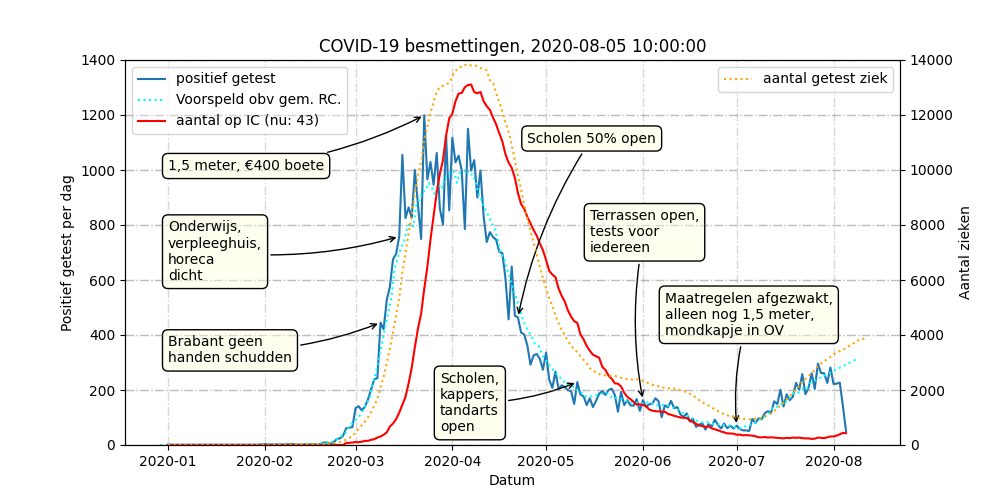
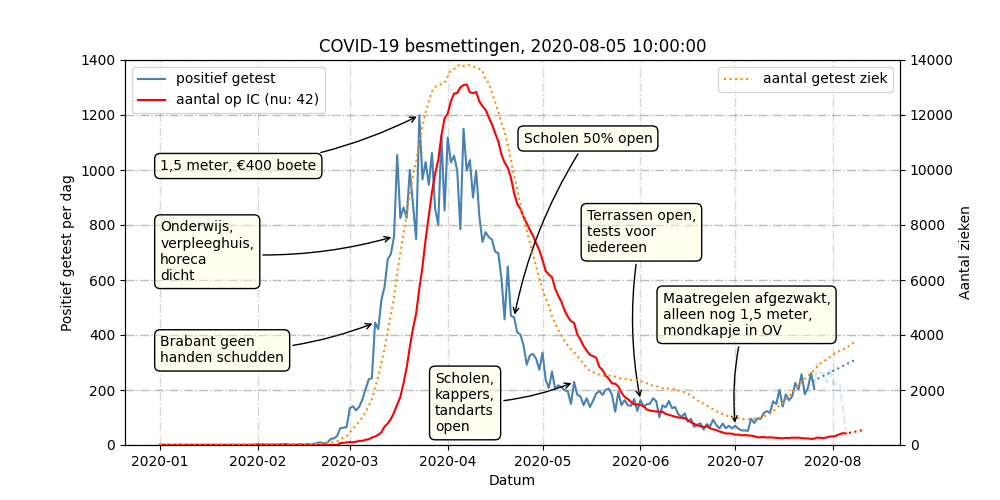
Ran getDailyExcelData

diff --git a/scripts/createGraph.py b/scripts/createGraph.py
@@ -79,7 +79,13 @@ ziek = {
 ic = {
     'x' : [],
     'y' : [],
-    'scale' : 1
+    'rc' : []
+}
+
+ic_voorspeld = {
+    'x' : [],
+    'y' : [],
+    'avgsize': 3
 }
 
 besmettingsgraad = {
@@ -102,7 +108,12 @@ for d in date_range:
         positief['y'].append(metenisweten[datum]['positief'])
 
         ic['x'].append(parser.parse(datum))
-        ic['y'].append(metenisweten[datum]['nu_op_ic'] * ic['scale'])  # <-------------- Let op! Scaled!
+        ic['y'].append(metenisweten[datum]['nu_op_ic'])
+
+        if len(ic['y'])>1:
+            ic['rc'].append(ic['y'][-1] - ic['y'][-2])
+        else:
+            ic['rc'].append(0)
 
     # --------------------------------- Gemiddeld positief getest
     if datum in metenisweten:
@@ -131,7 +142,15 @@ for d in date_range:
         voorspeld_huidig = 0
 
     positief_voorspeld['x'].append(parser.parse(datum) - datetime.timedelta(days=positief_voorspeld['avgsize']/2))
-    positief_voorspeld['y'].append(voorspeld_huidig)    
+    positief_voorspeld['y'].append(voorspeld_huidig)   
+
+    # ---------------------- Voorspelling op IC obv gemiddelde richtingscoefficient positief getest.
+    if len(ic['x']) > 10 and parser.parse(datum) > ic['x'][-1]:
+        ic_rc = mean(ic['rc'][-5:])
+
+        ic_voorspeld['x'].append(parser.parse(datum))
+        ic_voorspeld['y'].append(ic['y'][-1] + ic_rc * (parser.parse(datum) - ic['x'][-1]).days )
+
 
     # --------------------------------- Positief getest, en nu ziek (beter na x dagen)
     beterdag = (parser.parse(datum) - datetime.timedelta(days=ziek['ziekteduur'])).strftime("%Y-%m-%d")
@@ -184,7 +203,7 @@ ax2.grid(which='both', axis='both', linestyle='-.',
 
 # Plot cases per dag
 ax1.plot(positief['x'][:-10], positief['y'][:-10], color='steelblue', label='positief getest')
-ax1.plot(positief['x'][-11:], positief['y'][-11:], color='steelblue', alpha=0.2)
+ax1.plot(positief['x'][-11:], positief['y'][-11:], color='steelblue', linestyle='--', alpha=0.2)
 
 anotate(ax1, metenisweten, "2020-03-09",
         'Brabant geen\nhanden schudden', "2020-01-01", 300)
@@ -205,10 +224,11 @@ anotate(ax1, metenisweten, "2020-07-01",
 #          str(int(positief_gemiddeld['avgsize']/2))
 #          )
 
-ax1.plot(positief_voorspeld['x'], positief_voorspeld['y'], 
-         color='slateblue', linestyle=':', label='Voorspeld obv gem. RC.')
+ax1.plot(positief_voorspeld['x'][-15:], positief_voorspeld['y'][-15:], 
+         color='steelblue', linestyle=':')
 
 ax1.plot(ic['x'], ic['y'], color='red', label='aantal op IC (nu: '+str(ic['y'][-1])+')')
+ax1.plot(ic_voorspeld['x'], ic_voorspeld['y'], color='red', linestyle=':')
 
 ax2.plot(ziek['x'], ziek['y'], color='darkorange',
          linestyle=':', label='aantal getest ziek')
